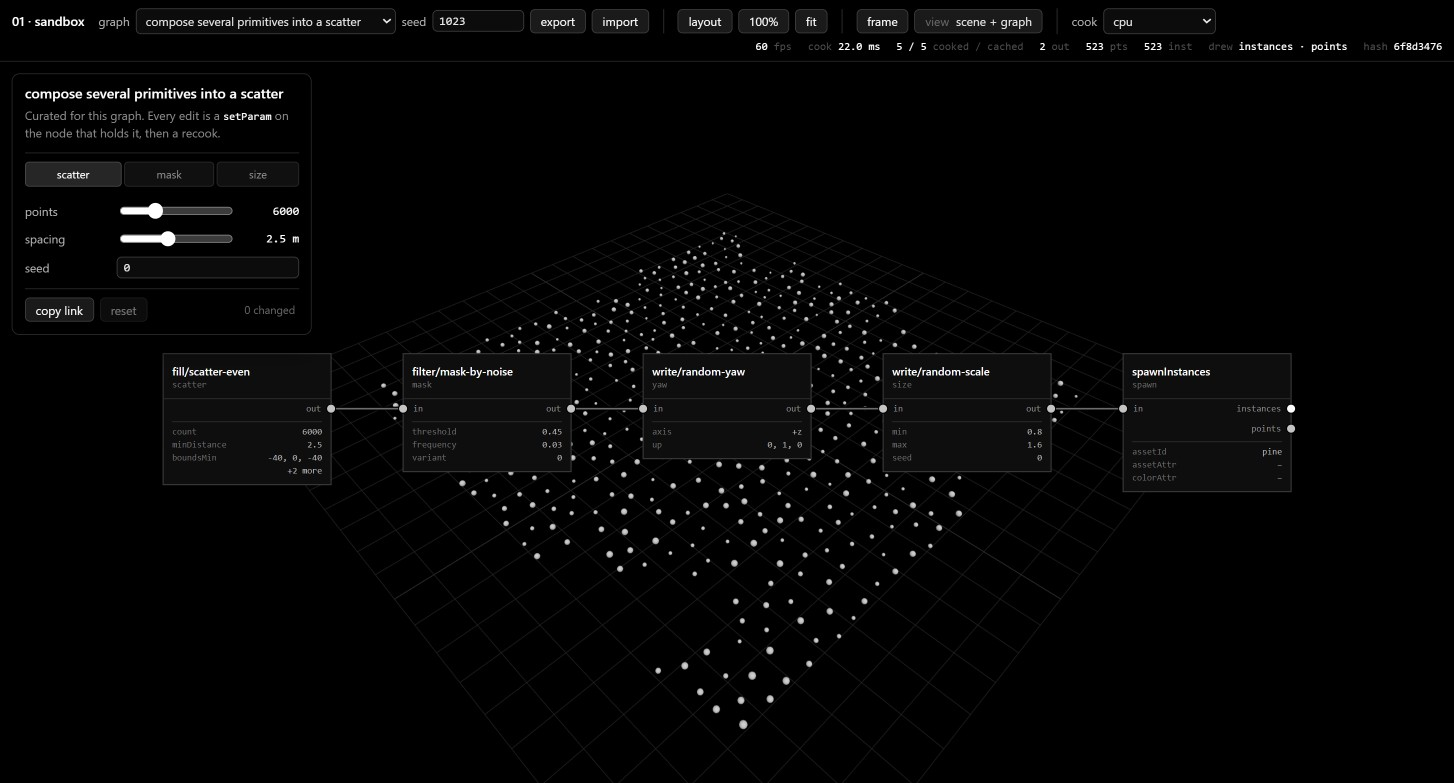
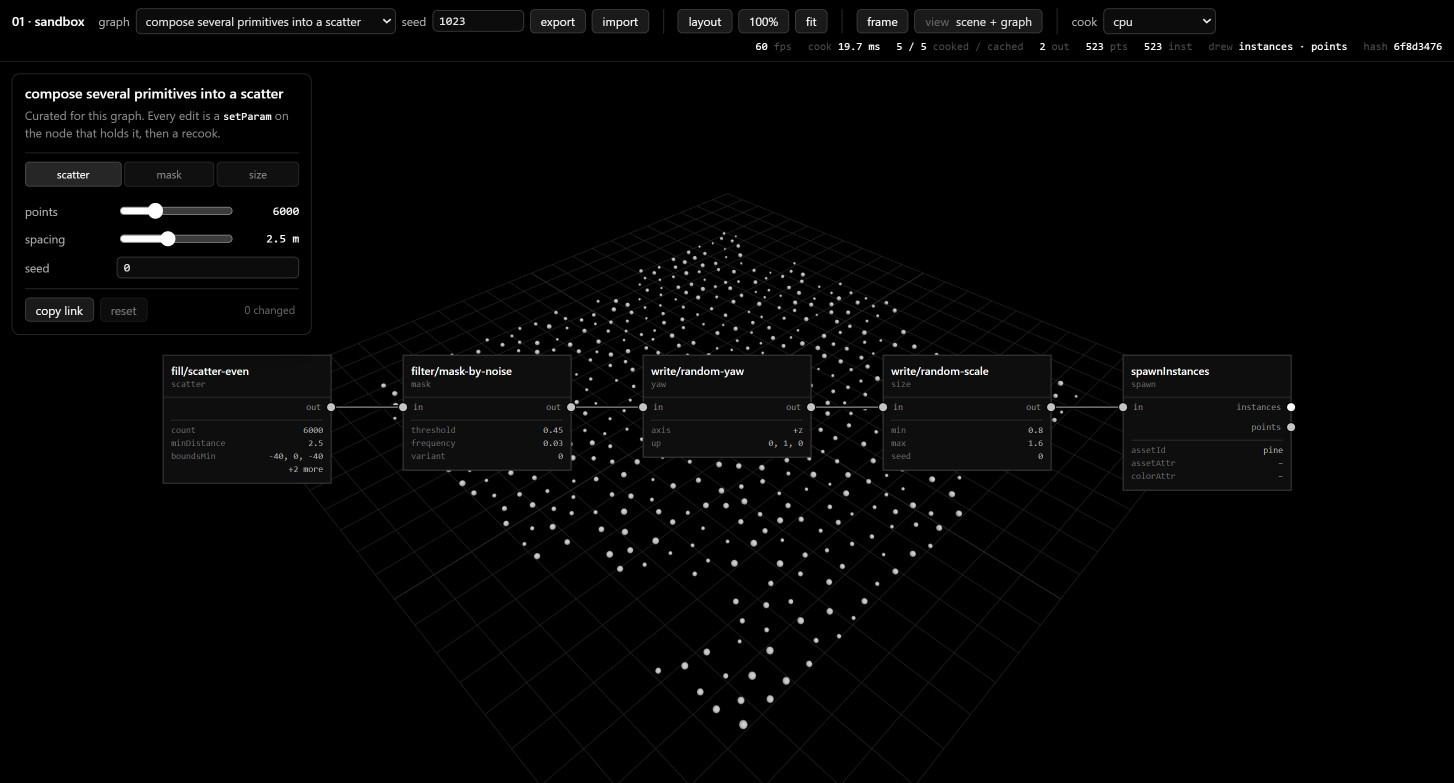
sandbox: node padding to 12 on top, 8 everywhere else
`PAD_TOP` 14 -> 12, `PAD` 9 -> 8. The optical correction stays — the top
is still visibly larger than the sides, for the reason it always was —
but both come in a little tighter.

`PAD_BOTTOM` now equals `PAD` at 8 and keeps its own constant anyway:
it is measured from a text BASELINE where the side padding is measured
to the edge of a glyph, so the two answer different questions and only
happen to land on the same number. Its comment said "two less than PAD",
which was already wrong before this change.

Measured from rendered pixels: top 12-12.5, left 8, right 8, bottom 8.5.

npm test: 117 files, 2932 passed. Figures regenerated.

diff --git a/examples/01-sandbox/layout.ts b/examples/01-sandbox/layout.ts
@@ -9,15 +9,15 @@ import type { EdgeView, NodeView } from "./model.js";
 export const NODE_W = 168;
 
 /**
- * Inner padding, and the same number on every side.
+ * Inner padding on the left, the right and the bottom.
  *
- * SVG text is positioned by its BASELINE, not by its box, so "9 from the
- * top" is not `y = 9` — it is 9 plus the cap height of the face, and
+ * SVG text is positioned by its BASELINE, not by its box, so "8 from the
+ * top" is not `y = 8` — it is 8 plus the cap height of the face, and
  * getting that wrong is what had the title sitting 5px under the edge
  * while everything beside it sat 9 from the left. The baselines below are
- * derived from this rather than typed in, so the padding is one number.
+ * derived from these constants rather than typed in.
  */
-export const PAD = 9;
+export const PAD = 8;
 
 /**
  * Space above the title, and deliberately MORE than `PAD`.
@@ -29,7 +29,7 @@ export const PAD = 9;
  * This is an optical correction, not a second opinion about the value:
  * left, right and bottom all still come off `PAD`.
  */
-export const PAD_TOP = 14;
+export const PAD_TOP = 12;
 
 /** Cap height of the 11px title face, and of the 9px id face below it. */
 const TITLE_CAP = 8;
@@ -54,10 +54,11 @@ export const HEADER_H = ID_Y + PAD + 2;
 /** Vertical spacing between pin rows. */
 export const PIN_SPACING = 20;
 /**
- * Padding below the last row. Two less than `PAD` for the same reason the
- * header adds two: this one is measured from a baseline that has the band
- * gap above it, and 8 here is what puts the same 11 units under the last
- * param row as sit under the id.
+ * Padding below the last row. Its own constant rather than `PAD` even
+ * though the two currently agree: this one is measured from a text
+ * BASELINE and the side padding is measured to the edge of a glyph, so
+ * they answer different questions and only happen to land on the same
+ * number.
  */
 export const PAD_BOTTOM = 8;
 /** Vertical spacing between param preview rows. */
